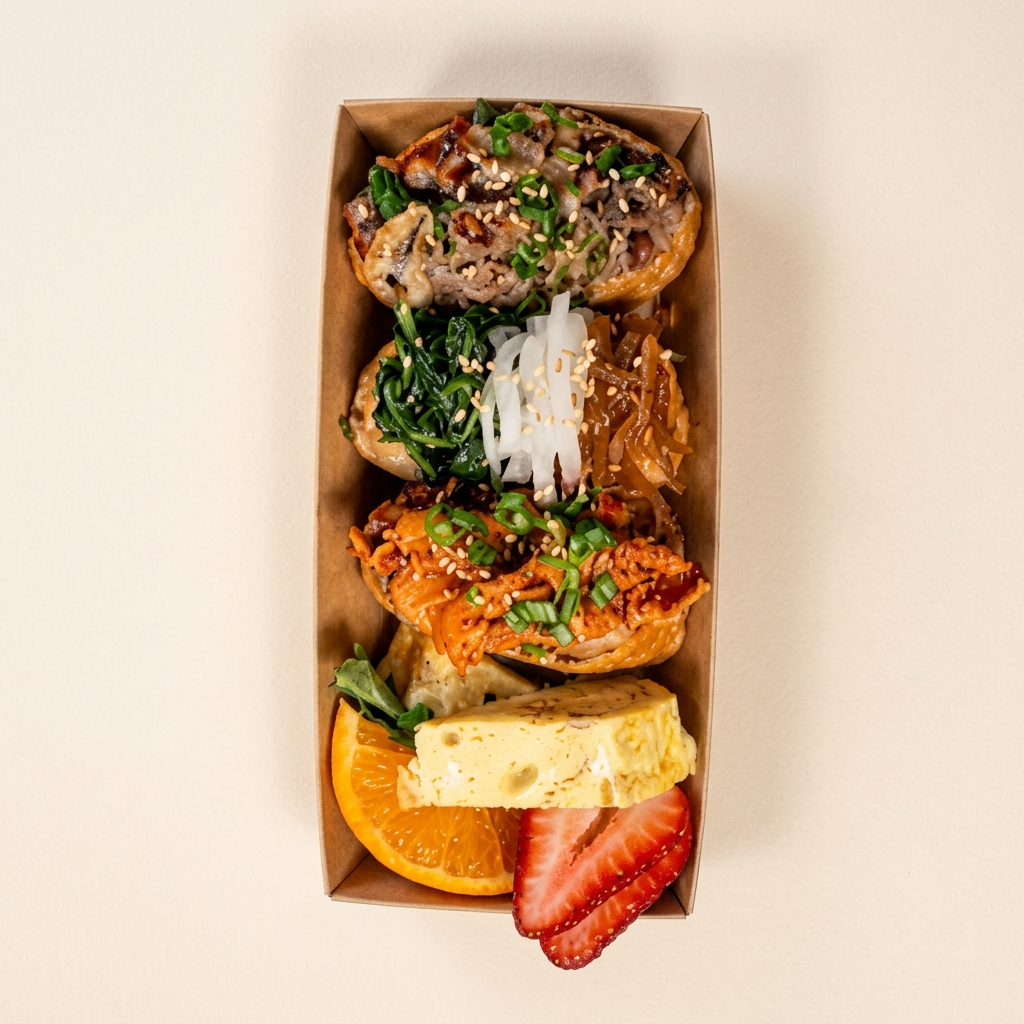
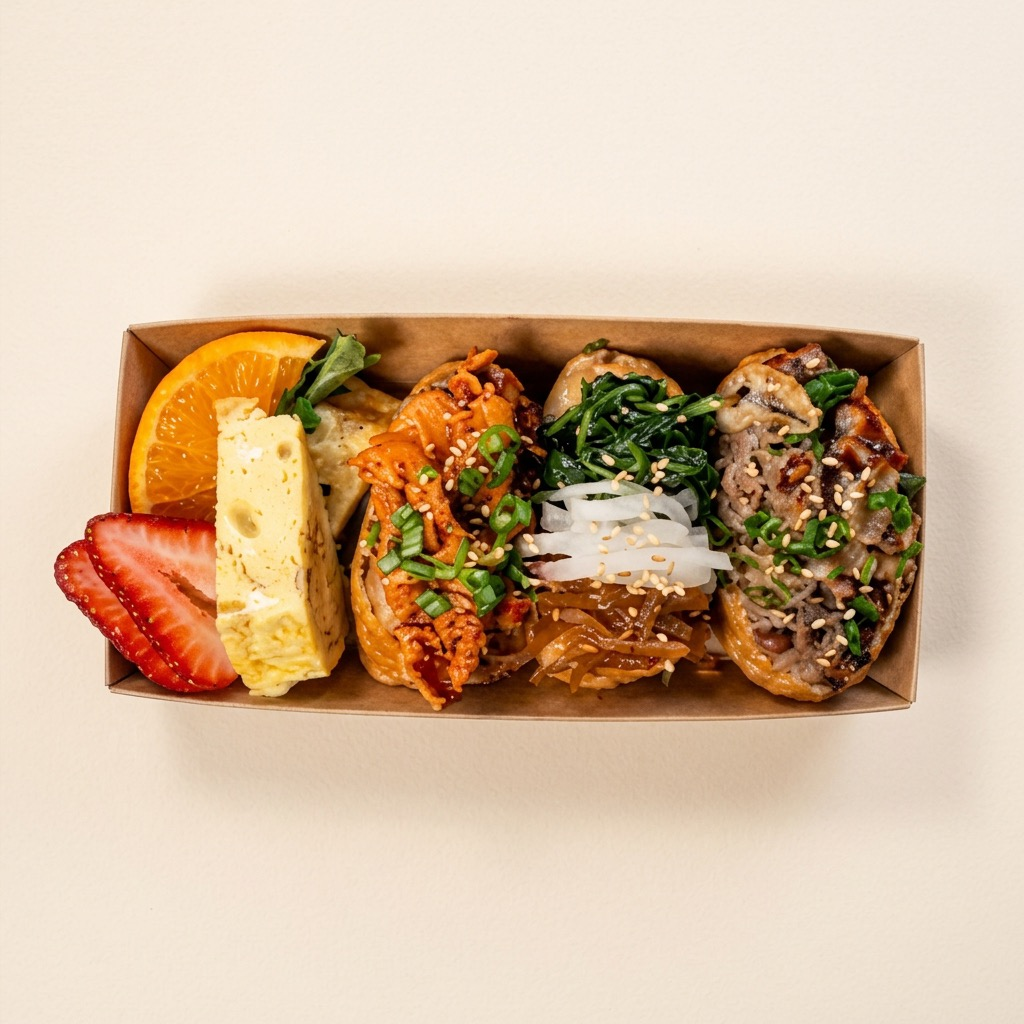
Rotate K-Inari image 90deg, make hero image square aspect ratio

diff --git a/src/components/sections/Hero.tsx b/src/components/sections/Hero.tsx
@@ -37,7 +37,7 @@ export function Hero() {
 
         {/* Right image — 40% */}
         <div className="mt-10 w-full md:mt-0 md:w-[40%]">
-          <div className="relative aspect-[4/5] w-full overflow-hidden rounded-lg">
+          <div className="relative aspect-square w-full overflow-hidden rounded-lg">
             <Image
               src="/images/hero.jpg"
               alt="Korean dosirak meal box with compartments of banchan, rice, and kimchi"
